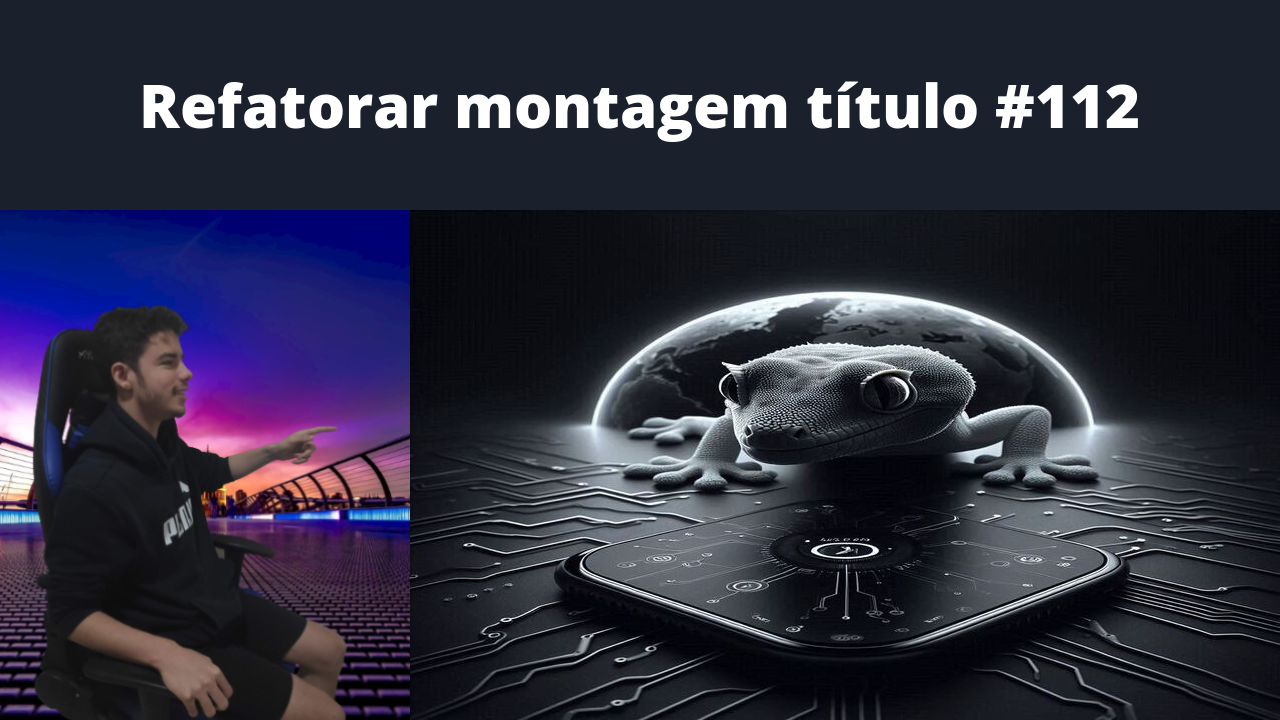
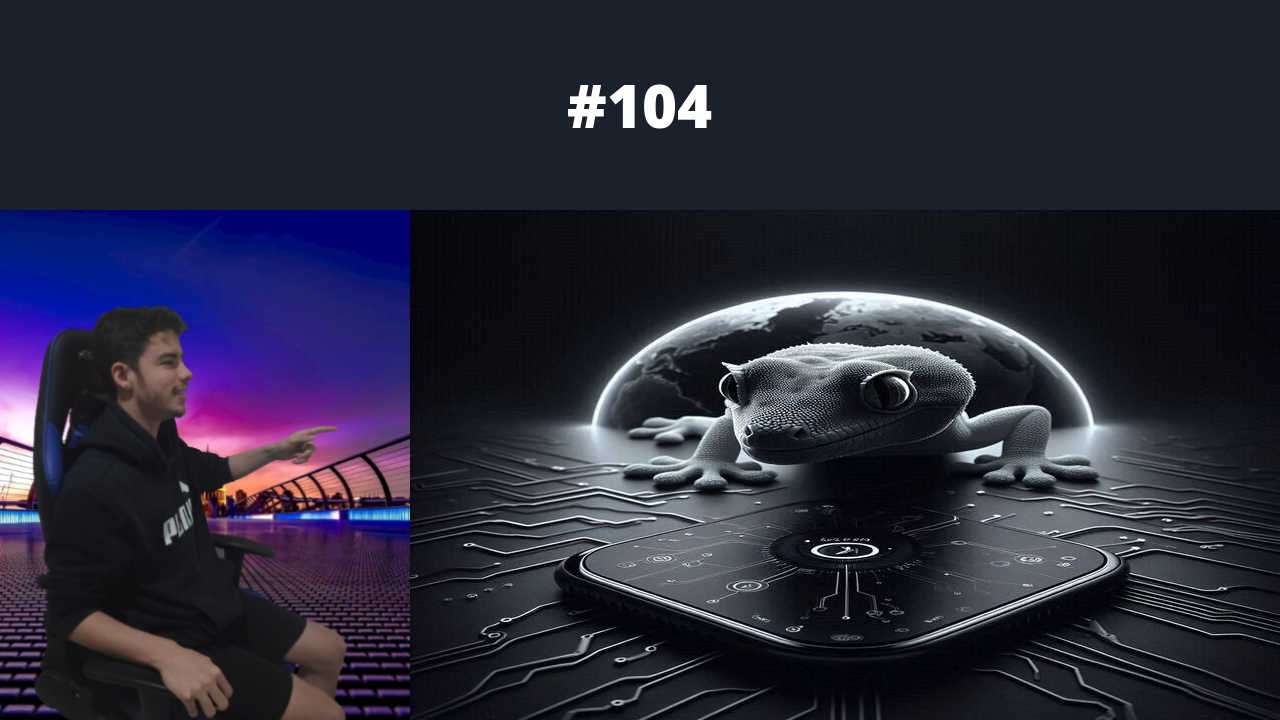
chore: add title debug: test update index to try to change wrong files

Changed region(s): [[0.0938, 0.0917, 0.9062, 0.2139]]

diff --git a/out/titles/thumbGen.md b/out/titles/thumbGen.md
@@ -194,21 +194,21 @@
 [video](https://youtu.be/kNuKsLeSHKs)
 ## Títulos customizados #98
 [video](https://youtu.be/Suef3_ZRAB4)
-## ThumbGen 99
+## #99
 [video](https://youtu.be/b78b2bXZreg)
-## ThumbGen 100
+## #100
 [video](https://youtu.be/mA7UjmchZfw)
-## ThumbGen 101
+## #101
 [video](https://youtu.be/3FqbDlHewO0)
-## ThumbGen 102
+## #102
 [video](https://youtu.be/qEXFYTmer7o)
-## ThumbGen 103
+## #103
 [video](https://youtu.be/28NrtdSrxgY)
-## ThumbGen 104
+## #104
 [video](https://youtu.be/L6LSJreSkGY)
-## ThumbGen 105
+## #105
 [video](https://youtu.be/JmmS0LMdJFg)
-## ThumbGen 106
+## #106
 [video](https://youtu.be/XewFoqdCnPQ)
 ## Resolver CI não cria imagens #107
 [video](https://youtu.be/OjUfC5KogS4)
